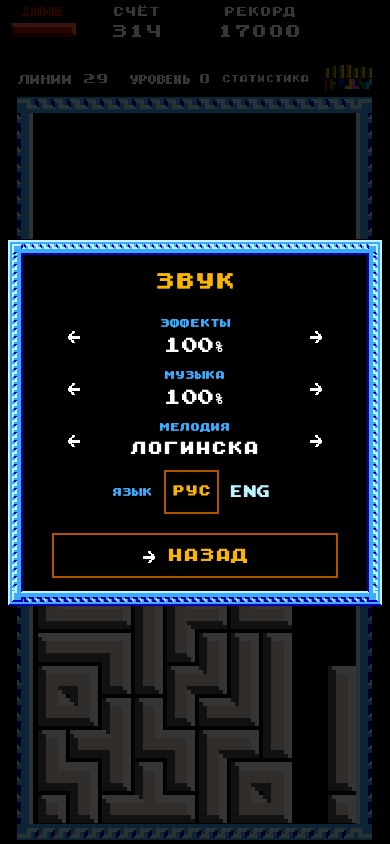
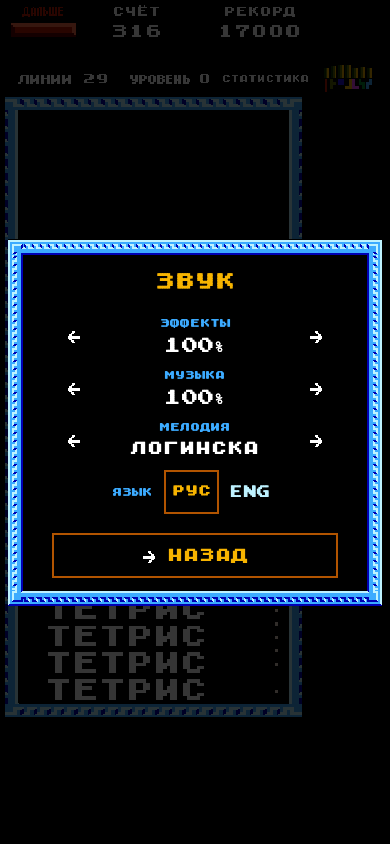
Move portrait controls clear of the well and simplify iPhone setup

Changed region(s): [[0.0, 0.0924, 0.9538, 1.0], [0.3692, 0.0308, 0.4, 0.0616]]

diff --git a/controls.js b/controls.js
@@ -13,6 +13,7 @@ export function bindControls({ pad, setInput, pause }) {
   pad.append(down);
   const buttons = [...pad.querySelectorAll('[data-button]')];
   for (const turn of rotation.querySelectorAll('button')) turn.textContent = '';
+  const portrait = matchMedia('(orientation: portrait)');
   const landscape = matchMedia('(orientation: landscape) and (pointer: coarse)');
 
   function readPoint(x, y) {
@@ -20,9 +21,10 @@ export function bindControls({ pad, setInput, pause }) {
     const mid = box.left + box.width * 0.5;
     const drop = down.getBoundingClientRect();
     if (x >= drop.left && x < drop.right && y >= drop.top && y < drop.bottom) {
-      return { group: 'action', button: 'down' };
+      return { group: portrait.matches ? 'drop' : 'action', button: 'down' };
     }
-    if (y < box.top + box.height / 2 || y > box.bottom || x < box.left || x > box.right) return null;
+    const start = box.top + box.height * (portrait.matches ? 0.38 : 0.5);
+    if (y < start || y >= box.bottom || x < box.left || x >= box.right) return null;
     const left = x < mid;
     let split = box.left + box.width * (left ? 0.25 : 0.75);
     if (landscape.matches) {
@@ -53,6 +55,12 @@ export function bindControls({ pad, setInput, pause }) {
   new MutationObserver(() => { if (!isPlaying()) clear(); })
     .observe(game, { attributes: true, attributeFilter: ['inert', 'data-scene'] });
 
+  // Cancel WebKit's native long-press recognizer even in the inactive
+  // parts of the play surface. The pause button keeps its normal tap.
+  pad.addEventListener('touchstart', event => {
+    if (isPlaying() && !pauseButton.contains(event.target) && event.cancelable) event.preventDefault();
+  }, { passive: false });
+
   pad.addEventListener('pointerdown', event => {
     if (!isPlaying() || pauseButton.contains(event.target) || event.button !== 0) return;
     const hit = readPoint(event.clientX, event.clientY);
@@ -65,7 +73,7 @@ export function bindControls({ pad, setInput, pause }) {
   pad.addEventListener('pointermove', event => {
     const id = event.pointerId;
     const touch = touches.get(id);
-    if (!touch) return;
+    if (!touch || touch.group === 'drop') return;
     const next = isPlaying() && readPoint(event.clientX, event.clientY);
     if (!next || next.group !== touch.group) {
       release(id);

diff --git a/sw.js b/sw.js
@@ -1,8 +1,8 @@
 // Run python3 tools/refresh-offline.py after modifying the game.
 // BEGIN GENERATED OFFLINE BUNDLE
-const BUILD = 'd0a109f0b2a84afe5a45';
+const BUILD = '17555907d09cd010f711';
 const FILES = [
-  ["app.js", "sha256-WEdUVhR6tWLFYxDTa5gIAq9fPpUfitvw1a8L+D6BJ7M="],
+  ["app.js", "sha256-nYo3JA6K28JPbg7wsWM4b5v8zQ+R08IUBzzOMtPNHy8="],
   ["assets/arrow.png", "sha256-Xkt8bTzGyHK5hj+6p2X7RirhFsHgQqMSyP3W3DyHzBc="],
   ["assets/block.png", "sha256-bHHsaBDkKFKloGbXN9wtirolvFKFXAZTjCPYZu1GSO8="],
   ["assets/frame.png", "sha256-gG5M38iSOY1Ad2HuBi6nKUM4l7yWPpVfz+c/9nAzhiA="],
@@ -22,18 +22,18 @@ const FILES = [
   ["assets/well.png", "sha256-J4sDuw/Zrpe1+fgRJYiR7BzCmgj7L+V++oP0f1ZTNFA="],
   ["cartridge-audio.js", "sha256-kZGHxT/++rzA3l9MkqtlTVq8k7xCb5QwavYsi2VcFT8="],
   ["cartridge.js", "sha256-GE4dL5S9G+aODLmrarnUWTpWqp0udFtzr55GTAVNw48="],
-  ["compositor.js", "sha256-jOgWhXdQnQifONQPkRItKWgM0ZqI2uxlyM1H76OPKrA="],
-  ["controls.css", "sha256-SgSSISspYUAiBErS05qJAR72XcpNmWTf6pC372VMDGw="],
-  ["controls.js", "sha256-bFbyqgNGxad8PFaB7W8EaCgfkV1af3efBLLeuZCbQc8="],
+  ["compositor.js", "sha256-QjdZco4VIAXN4o+4rhB/GEh+G9VucU1XFU05hKslHrM="],
+  ["controls.css", "sha256-+ZxadiR9FsUPdl2z6JtFnvZSbPXqhsq02VAxzqd5YkE="],
+  ["controls.js", "sha256-u+m4TakyTczslxaEXbCJdTK27jUHPRtLLmPmUpiyj4E="],
   ["engine.js", "sha256-sNqL04SDI1zE2+3XE5vK8Q51wiOyPXqHro9kt+l0iVM="],
   ["game-ru.nes", "sha256-M/BKw5U+fW092ICDzW+Q/93IBWg9IPqEB9jC2DWxHUY="],
   ["game.nes", "sha256-U5cKKyWBn5UUu38yp7Voo/S9vYdU2p57kUICDxq46mI="],
   ["index.html", "sha256-rvYoL85Bm96Gi5qCwNGePgc4KwXrnrWzGPkiyDynIjQ="],
   ["install.css", "sha256-4ZF2+KlnmA/QFDQiVxEx8cIbW+IkQDkbhsiBHTtD5M8="],
-  ["install.js", "sha256-On6I6vxyiNvWa18FnJ/+Fm1GXtQgxX4O2RvOTN3WHkI="],
+  ["install.js", "sha256-DTK3Cw1MfqEE4GN6H7rAfn5v2G86ZrHi9kIMDpNunP0="],
   ["locale.js", "sha256-lst5Wo9aODEyHkntKM++/0KeJdVw2/vfYJ1v+hegyWw="],
   ["manifest.webmanifest", "sha256-5nKMTk9rEvbDWQ9HW7FOAbX+V8rNu/1zMXftY1ooG3Y="],
-  ["style.css", "sha256-ug0+H1pkqU7fQCNTlEYzR6SVRdrDyrlKDXIDnKHoLGU="],
+  ["style.css", "sha256-HL17n9miAn1aooW3Z7ceSdkXlqiwkkF6cfAhuGoJ+nQ="],
   ["vendor/jsnes.js", "sha256-uIpOhApFnEU+rBKvQIrwLSzTCYdZfLlWyfLQ5pRXMPs="],
   ["viewport.js", "sha256-i+gkpg/UthKbTcHjcJ2PQDEnPk1vGKc4iC4Q9tIcnxo="]
 ];

diff --git a/install.js b/install.js
@@ -1,7 +1,7 @@
 const words = {
   en: {
     title: 'Install Tetris?', install: 'INSTALL GAME', play: 'PLAY IN BROWSER',
-    open: 'INSTALL GAME', ios: 'In Safari, tap Share, then Add to Home Screen. Enable Open as Web App if shown, then tap Add. If you opened this link inside another app, choose Open in Safari first.',
+    open: 'INSTALL GAME', ios: 'Open the game in Safari. Tap Share, choose Add to Home Screen, then tap Add. Tetris will always be on your Home Screen.',
     chrome: 'In the browser menu, choose Install app or Add to Home screen, then Install.',
     samsung: 'Tap the install icon or choose Add page to → Home screen in the Samsung Internet menu.',
     safari: 'In Safari, choose File → Add to Dock.',
@@ -11,7 +11,7 @@ const words = {
   },
   ru: {
     title: 'Установить Тетрис?', install: 'Установить игру', play: 'Играть в браузере',
-    open: 'Установить игру', ios: 'В Safari нажмите «Поделиться» → «На экран Домой». Включите «Открыть как веб-приложение», если такой пункт есть, и нажмите «Добавить». Если вы открыли ссылку внутри другого приложения, сначала выберите «Открыть в Safari».',
+    open: 'Установить игру', ios: 'Откройте игру в Safari. Нажмите «Поделиться», выберите «На экран Домой» и нажмите «Добавить». Теперь Тетрис всегда будет с вами.',
     chrome: 'В меню браузера выберите «Установить приложение» или «Добавить на главный экран» → «Установить».',
     samsung: 'Нажмите значок установки или выберите «Добавить страницу» → «Главный экран» в меню Samsung Internet.',
     safari: 'В Safari выберите «Файл» → «Добавить в Dock».',

diff --git a/compositor.js b/compositor.js
@@ -63,6 +63,7 @@ function copyPiece(ppu, pixels, first, originX, originY, destX, destY, width, he
 export class Compositor {
   constructor(canvas) {
     this.canvas = canvas;
+    this.game = canvas.closest('#game');
     this.ctx = canvas.getContext('2d', { alpha: false });
     this.source = document.createElement('canvas');
     this.source.width = SRC_WIDTH;
@@ -86,6 +87,11 @@ export class Compositor {
     if (this.canvas.height !== h) this.canvas.height = h;
     this.ctx.imageSmoothingEnabled = false;
     this.landscape = window.matchMedia('(orientation: landscape)').matches;
+    if (!this.landscape) {
+      const style = getComputedStyle(this.game);
+      this.dropWidth = parseFloat(style.getPropertyValue('--portrait-drop-width'));
+      this.controlsHeight = parseFloat(style.getPropertyValue('--portrait-controls-height'));
+    }
     this.paint();
   }
 
@@ -343,10 +349,12 @@ export class Compositor {
     }
 
     const fieldTop = secondTop + strip + pad;
-    const k = Math.min((w - 2 * pad) / WELL_W, (h - fieldTop - pad) / WELL_H);
-    // Extra room on unusually tall displays remains under the well for
-    // thumbs. The HUD and playfield always stay together.
-    this.well((w - WELL_W * k) / 2, fieldTop, k);
+    // The footer holds the visible control marks. The right rail is a
+    // dedicated target for soft drop. Neither covers a pixel of the well.
+    const fieldWidth = w - (hasControls ? this.dropWidth : 0);
+    const fieldBottom = h - (hasControls ? this.controlsHeight : pad);
+    const k = Math.min((fieldWidth - 2 * pad) / WELL_W, (fieldBottom - fieldTop) / WELL_H);
+    this.well((fieldWidth - WELL_W * k) / 2, fieldTop, k);
   }
 
   landscapeGame(w, h) {

diff --git a/style.css b/style.css
@@ -20,7 +20,12 @@
     --ui-safe-top: calc(max(var(--device-safe-top), var(--iphone-status-floor, 0px)) + 9px);
   }
 }
-* { box-sizing: border-box; }
+* {
+  box-sizing: border-box;
+  -webkit-user-select: none;
+  user-select: none;
+  -webkit-touch-callout: none;
+}
 [hidden] { display: none !important; }
 html, body { margin: 0; width: 100%; height: 100%; overflow: hidden; background: #000; }
 body { font: 16px/1.4 Cart, monospace; color: #fff; -webkit-tap-highlight-color: transparent; }
@@ -28,7 +33,7 @@ button { font: inherit; color: inherit; cursor: pointer; }
 button { appearance: none; border-radius: 0; touch-action: manipulation; }
 button:focus-visible { outline: 3px solid var(--sky); outline-offset: 2px; }
 button:disabled { opacity: .5; }
-button, img, canvas { user-select: none; -webkit-user-select: none; -webkit-touch-callout: none; }
+img { -webkit-user-drag: none; }
 img, canvas, .panel, .turn { image-rendering: pixelated; }
 #machine { position: relative; height: 100%; height: 100dvh; }
 #game, #overlay {

diff --git a/app.js b/app.js
@@ -378,7 +378,9 @@ byId('screen').addEventListener('click', () => {
   if (view === 'game' && activeScene === 'dance') tapCartridge('a');
 });
 
-document.addEventListener('contextmenu', event => { if (game.contains(event.target)) event.preventDefault(); });
+for (const type of ['contextmenu', 'selectstart', 'dragstart']) {
+  document.addEventListener(type, event => event.preventDefault());
+}
 window.addEventListener('keydown', event => {
   if (installation.isOpen() || event.ctrlKey || event.metaKey || event.altKey) return;
   const code = event.code;

diff --git a/controls.css b/controls.css
@@ -67,3 +67,16 @@
   .pad .moves { left: 6px; }
   .pad .turns { right: 6px; }
 }
+
+@media (orientation: portrait) {
+  #game {
+    --portrait-drop-width: 84px;
+    --portrait-controls-height: 64px;
+  }
+  .pad .moves, .pad .turns { bottom: 8px; }
+  .pad > .down {
+    top: 45%; right: 0; transform: none;
+    width: var(--portrait-drop-width);
+    height: clamp(88px, 26%, 200px);
+  }
+}

diff --git a/screenshots/README.md b/screenshots/README.md
@@ -8,7 +8,7 @@
 | --- | --- |
 | [![Колодец, статистика и сенсорное управление](portrait.png)](portrait.png) | [![Меню паузы поверх партии](pause.png)](pause.png) |
 
-[Портретный экран iPhone с отступом под часы](iphone-portrait.png). Кадр из WebKit с профилем 393 × 852 и верхней системной областью 59 пикселей.
+[Портретный экран iPhone с отступом под часы](iphone-portrait.png). Кадр из браузерной эмуляции с профилем 393 × 852 и верхней системной областью 59 пикселей.
 
 **Горизонтальный экран, английская версия.** Колодец расположен по центру, следующая фигура и статистика видны по сторонам.
 
